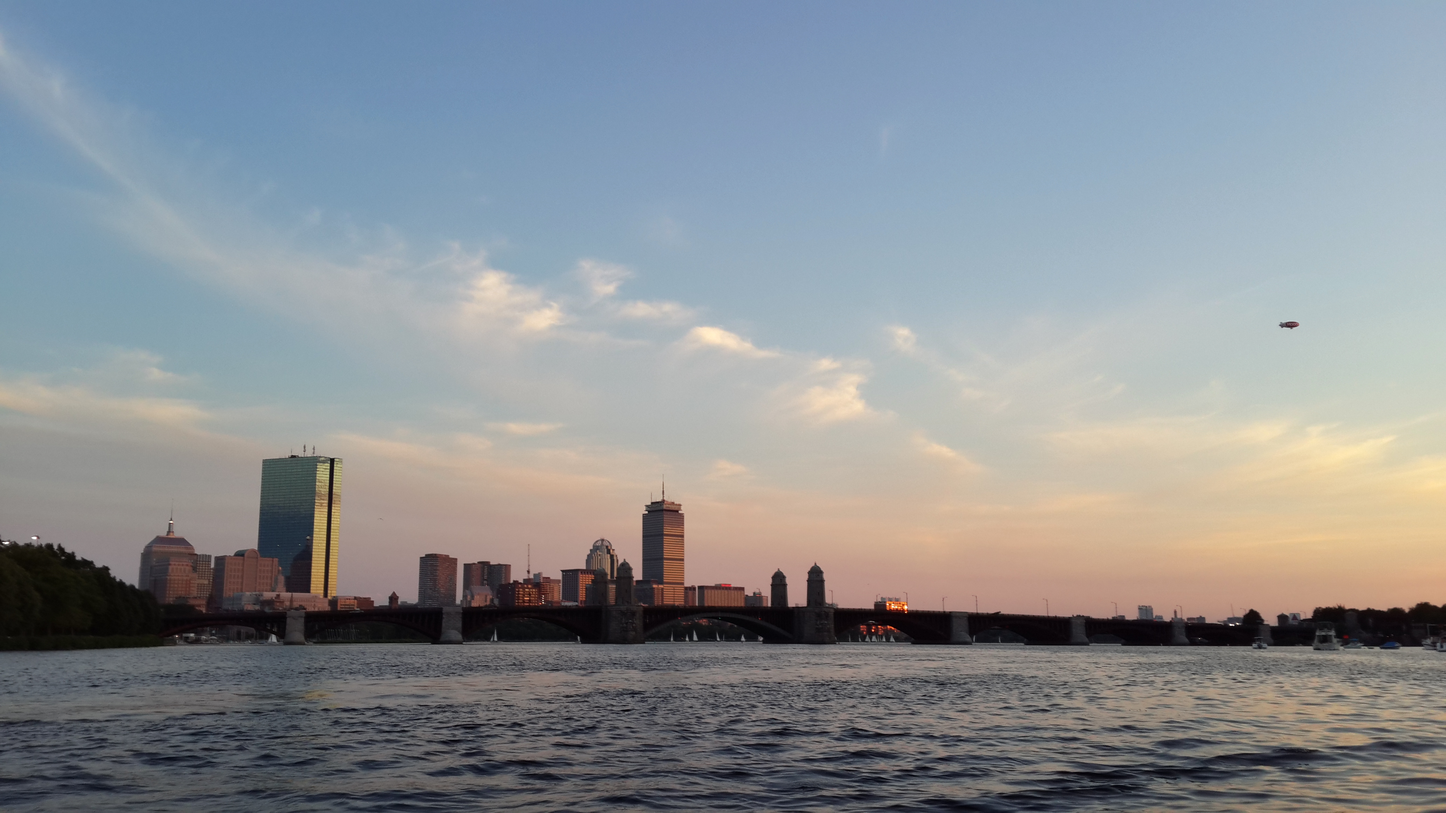
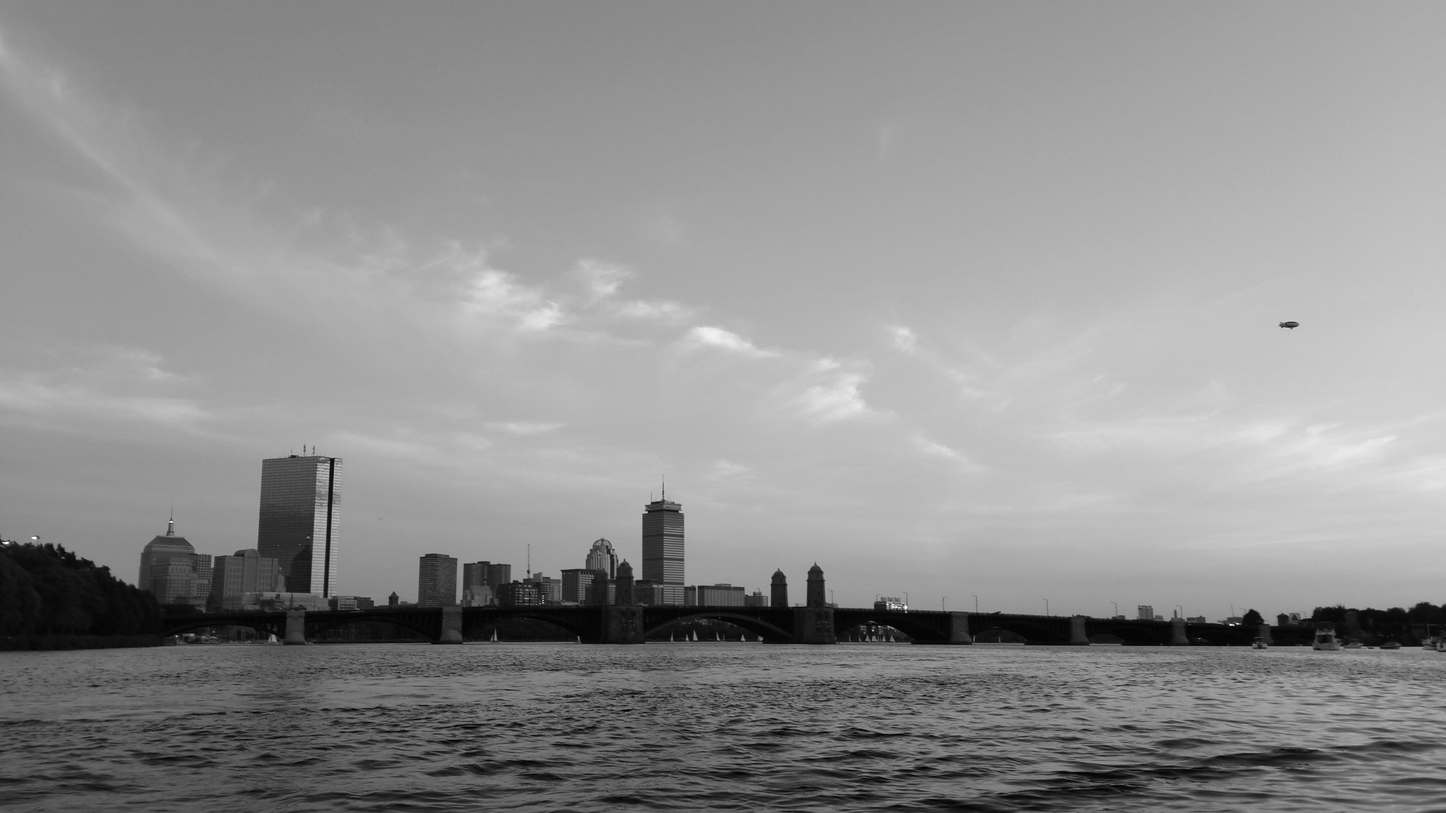
Updated styles and cover picture

diff --git a/index.html b/index.html
@@ -37,50 +37,11 @@
         </div>
       </div>
 
-      <div id="section1">
-        <div class="container">
-          <h2>Education</h2>
-
-            <div class="school-description">
-            <div class="image">
-              <img id="ufcg" src="images/ufcg.png" alt="Federal University of Campina Grande">
-            </div>
-            <h1>Federal University of Campina Grande</h1>
-            <ul>
-              <li>Campina Grande, PB, Brazil</li>
-              <li>BS. Computer Science</li>
-              <li>Expected graduation in March, 2015</li>
-            </ul></div>
-
-            <div class="school-description">
-            <div class="image">
-              <img id="walsh" src="images/walsh.png" alt="Walsh University">
-            </div>
-            <h1>Walsh University</h1>
-            <ul>
-              <li>North Canton, OH, USA</li>
-              <li>Visiting Student</li>
-              <li>Fall 2012 - Spring 2013</li>
-            </ul></div>
-
-            <div class="school-description">
-            <div class="image">
-              <img id="wmu" src="images/wmu.png" alt="Western Michigan University">
-            </div>
-            <h1>Western Michigan University</h1>
-            <ul>
-              <li>Kalamazoo, MI, USA</li>
-              <li>English as a Second Language</li>
-              <li>Summer 2012</li>
-            </ul></div>
-
-        </div>
-      </div>
       <div id="section2">
         <div class="container">
           <h2>Experience</h2>
 
-          <div id="first-exp-item" class="experience-item">
+          <div class="experience-item">
             <h1>Eclipse Foundation</h1>
             <h2>Software Developer</h2>
             <p>
@@ -130,7 +91,7 @@
             </ul>
           </div>
 
-          <div id="last-exp-item" class="experience-item">
+          <div class="experience-item">
             <h1>Software Practices Laboratory</h1>
             <h2>Research Assistant</h2>
             <p>

diff --git a/styles.css b/styles.css
@@ -18,7 +18,7 @@ body {
 }
 .container {
     padding: 20px;
-    padding-bottom: 50px;
+    padding-bottom: 40px;
 }
 header {
     margin: 30px 0px;
@@ -79,13 +79,7 @@ ul {
 }
 .experience-item {
     padding: 30px 0px;
-    border-bottom: 1px dotted black;
-}
-#first-exp-item { 
-    padding-top: 0px;
-}
-#last-exp-item { 
-    border: none;
+    border-top: 1px dotted black;
 }
 .experience-item p {
     padding-bottom: 15px;
@@ -127,9 +121,73 @@ ul {
 #wmu {
     height: 120px;
 }
-#section3 li, #section2 li {
+#section2 li {
     margin: 10px 0px;
 }
 #avatar {
     margin: 40px 0px;
+}
+.school-description-temp h1 {
+    font-size: 16pt;
+    font-weight: 400;
+}
+.school-description-temp {
+    min-height: 195px;
+    max-width: 600px;
+    padding-bottom: 30px;
+}
+.school-image {
+    text-align: center;
+    min-width: 200px;
+}
+#section3 li {
+    padding: 15px 0px;
+}
+* ul {
+    list-style-type: square;
+}
+@media (min-width: 640px) {
+
+    .school-image {
+        float: left;
+    }
+    .description-temp ul {
+        padding-left: 230px;
+    }
+    .school-description-temp {
+        margin-left: 40px;
+    }
+}
+@media (min-width: 800px) {
+
+    #headline img {
+        width: 150px;
+        height: 150px;
+        border-radius: 75px;
+        -webkit-border-radius: 75px;
+        -moz-border-radius: 75px;
+        box-shadow: 0 0 8px rgba(0, 0, 0, .8);
+        -webkit-box-shadow: 0 0 8px rgba(0, 0, 0, .8);
+        -moz-box-shadow: 0 0 8px rgba(0, 0, 0, .8);
+    }
+    #headline p, #section2 p, #section3 ul {
+        text-align: justify;
+    }
+    #avatar {
+        padding: 0px;
+        margin: 0px;
+    }
+}
+@media (min-width: 768px) {
+
+    .container {
+        margin: auto;
+        max-width: 768px;
+    }
+    .school-description-temp h1 {
+        font-size: 20pt;
+        text-align: left;
+        font-weight: 300;
+        padding: 5px 0px;
+    }
 }
